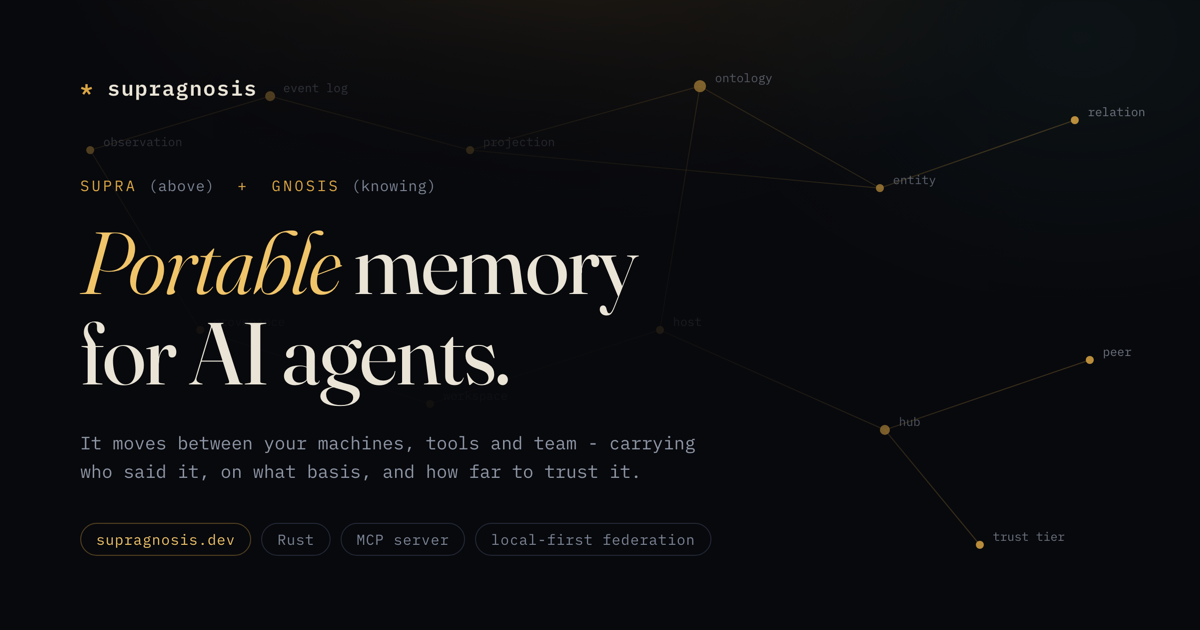
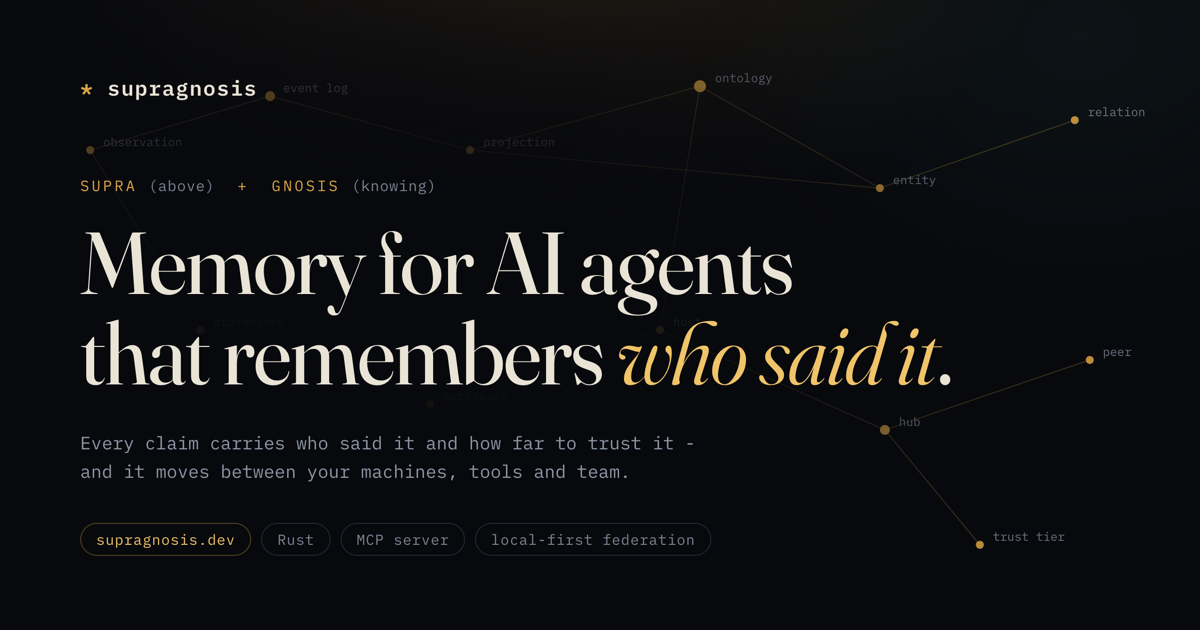
site: the tagline is the README's, everywhere
The README and server.json said "Memory for AI agents that remembers who said it"; the site, its
link-preview card and the repository description said "Portable memory for AI agents". Portability
is a feature every memory server claims; who said it is the one this one is built on. The hero, the
page title, the meta and og descriptions and the card now say the README's line, and the card is
re-rendered from its source. The heading's upper size drops from 6rem to 5rem so the longer second
line holds at 880px instead of leaving "it." alone on a third.

Changed region(s): [[0.0617, 0.5127, 0.8017, 0.6333], [0.0617, 0.3619, 0.6783, 0.5127], [0.0617, 0.6937, 0.5858, 0.754]]

diff --git a/site/index.html b/site/index.html
@@ -3,19 +3,19 @@
 <head>
   <meta charset="utf-8">
   <meta name="viewport" content="width=device-width, initial-scale=1">
-  <title>supragnosis - portable memory for AI agents</title>
-  <meta name="description" content="Portable memory for AI agents - with provenance. An embedded, file-based Rust knowledge server: memory that moves between your machines, tools, and team without losing who said what, on what basis, and whether to trust it. MCP interface, local-first federation, deterministic projection.">
+  <title>supragnosis - memory for AI agents that remembers who said it</title>
+  <meta name="description" content="Memory for AI agents that remembers who said it. An embedded, file-based Rust knowledge server for MCP clients: every claim carries who asserted it, on what basis, and how far to trust it. Agents build it as a by-product of work, humans govern what becomes canon, and it moves between your machines, tools and team.">
   <link rel="canonical" href="https://supragnosis.dev/">
   <meta name="theme-color" content="#08090d">
   <meta property="og:title" content="supragnosis">
-  <meta property="og:description" content="Portable memory for AI agents - with provenance. Agents build the knowledge graph as a by-product of work, humans govern what becomes canon, and provenance travels with the knowledge. An embedded Rust server with MCP interface and multi-host federation.">
+  <meta property="og:description" content="Memory for AI agents that remembers who said it. Agents build the knowledge graph as a by-product of work, humans govern what becomes canon, and every claim travels with who asserted it and how far to trust it. An embedded Rust server with an MCP interface and multi-host federation.">
   <meta property="og:type" content="website">
   <meta property="og:url" content="https://supragnosis.dev/">
   <meta property="og:site_name" content="supragnosis">
   <meta property="og:image" content="https://supragnosis.dev/assets/og.png">
   <meta property="og:image:width" content="1200">
   <meta property="og:image:height" content="630">
-  <meta property="og:image:alt" content="supragnosis - portable memory for AI agents. A constellation of observation, event log, projection, ontology and entity over dark ink.">
+  <meta property="og:image:alt" content="supragnosis - memory for AI agents that remembers who said it. A constellation of observation, event log, projection, ontology and entity over dark ink.">
   <meta name="twitter:card" content="summary_large_image">
   <link rel="icon" type="image/svg+xml" href="favicon.svg">
   <link rel="preconnect" href="https://fonts.googleapis.com">
@@ -80,15 +80,15 @@
 
       <div class="hero-inner">
         <p class="etymology">supra <span>(above)</span> &nbsp;+&nbsp; gnosis <span>(knowing)</span></p>
-        <h1><em>Portable</em> memory<br>for AI agents.</h1>
+        <h1>Memory for AI agents<br>that remembers <em>who said it</em>.</h1>
         <p class="lede">
-          Your agents' memory is trapped: one vendor, one machine, no record of
-          where any of it came from. supragnosis hands it back - an embedded,
-          file-based knowledge server in Rust where agents shed observations as a
-          by-product of work, the knowledge travels between your machines, tools
-          and team, and every claim arrives carrying who said it, on what basis,
-          and how far to trust it. Humans govern what becomes canon. Any MCP
-          client, any host, any workspace.
+          Most agent memory answers what was remembered, not who said so.
+          supragnosis stores every claim with who asserted it, on what basis,
+          and how far to trust it - an embedded, file-based knowledge server in
+          Rust where agents shed observations as a by-product of work and humans
+          govern what becomes canon. The knowledge travels between your machines,
+          tools and team, and nothing leaves your machine unless you say so. Any
+          MCP client, any host, any workspace.
         </p>
         <div class="hero-actions">
           <a class="btn btn-gold" href="https://github.com/Ashon/supragnosis">View on GitHub</a>

diff --git a/site/assets/og-source.html b/site/assets/og-source.html
@@ -123,8 +123,8 @@
   <div class="inner">
     <div class="wordmark"><b>*</b> supragnosis</div>
     <p class="ety">supra <span>(above)</span> &nbsp;+&nbsp; gnosis <span>(knowing)</span></p>
-    <h1><em>Portable</em> memory<br>for AI agents.</h1>
-    <p class="lede">It moves between your machines, tools and team - carrying<br>who said it, on what basis, and how far to trust it.</p>
+    <h1>Memory for AI agents<br>that remembers <em>who said it</em>.</h1>
+    <p class="lede">Every claim carries who said it and how far to trust it -<br>and it moves between your machines, tools and team.</p>
     <div class="foot">
       <span class="url">supragnosis.dev</span>
       <span>Rust</span>

diff --git a/site/style.css b/site/style.css
@@ -123,6 +123,8 @@ code {
 
 @media (max-width: 620px) {
   .site-head nav a:not(.nav-gh) { display: none; }
+  /* the heading's forced break is set for two wide lines; on a phone it flows */
+  .hero h1 br { display: none; }
 }
 
 /* ---------------- hero ---------------- */
@@ -220,7 +222,9 @@ code {
   font-family: var(--serif);
   font-optical-sizing: auto;
   font-weight: 420;
-  font-size: clamp(3rem, 8.5vw, 6rem);
+  /* 880px holds "that remembers who said it." on one line up to 5rem; above that the
+     second line wraps and leaves "it." alone on a third. */
+  font-size: clamp(3rem, 7vw, 5rem);
   line-height: 1.02;
   letter-spacing: -0.015em;
   margin: 0 0 26px;
